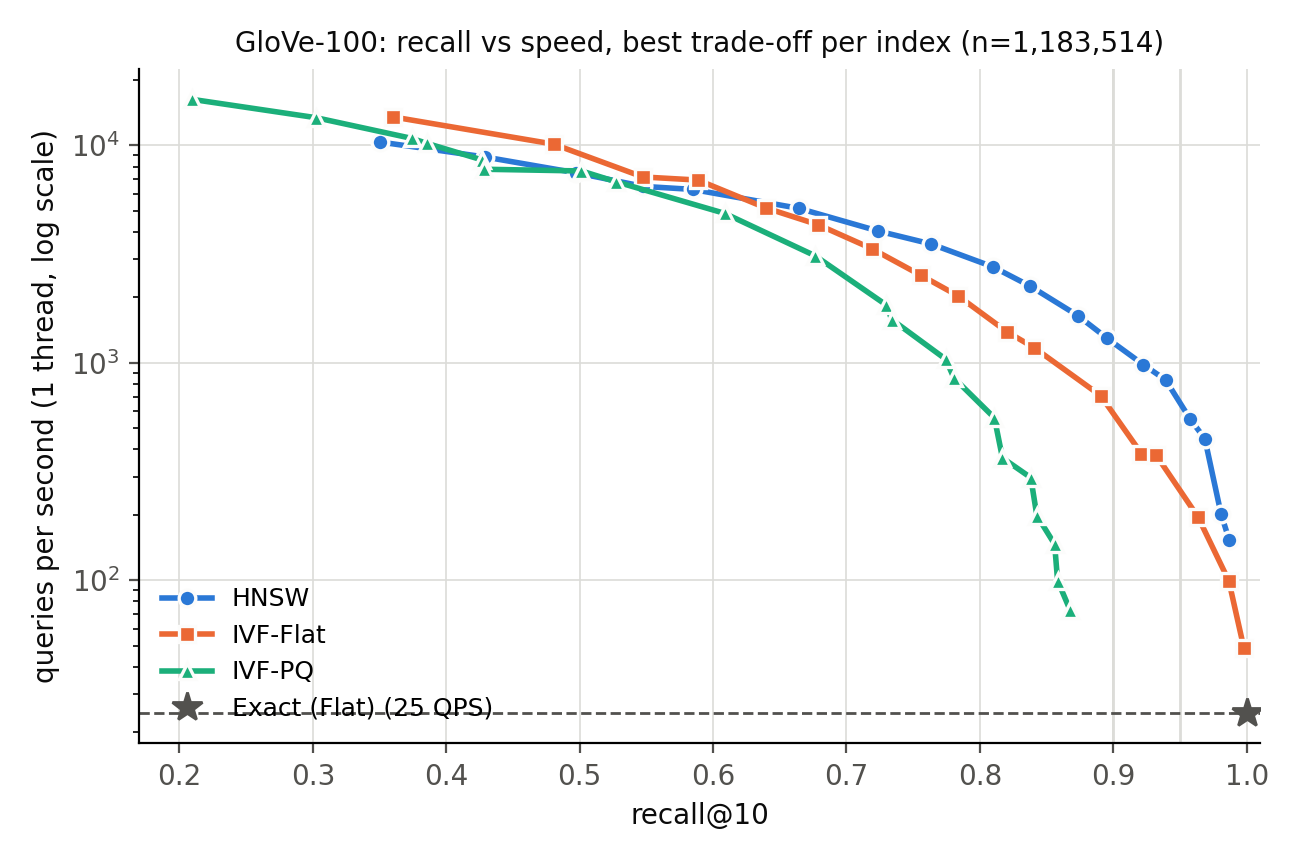
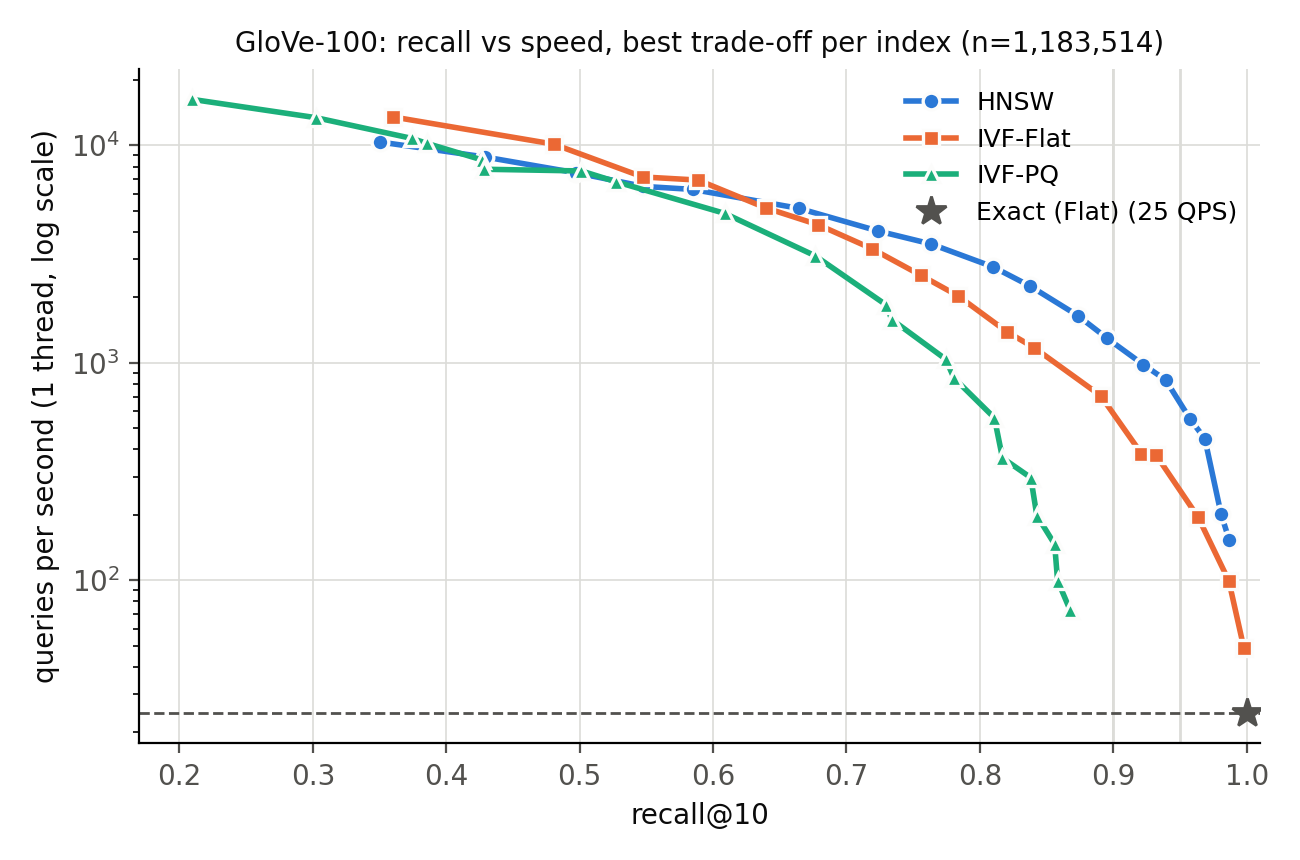
Part 2: figure legend fix and Part 1 notes with Ada timings

Changed region(s): [[0.7077, 0.0907, 0.9538, 0.2721], [0.1231, 0.6651, 0.2462, 0.8465], [0.1846, 0.8163, 0.3692, 0.8465]]

diff --git a/code/src/plots.py b/code/src/plots.py
@@ -57,7 +57,7 @@ def plot_dataset(ds, part2, exact_qps):
     for side in ("top", "right"):
         ax.spines[side].set_visible(False)
     ax.tick_params(colors=MUTED)
-    ax.legend(frameon=False, fontsize=9, loc="lower left")
+    ax.legend(frameon=False, fontsize=9, loc="upper right")
     fig.tight_layout()
 
     FIGURES_DIR.mkdir(parents=True, exist_ok=True)
